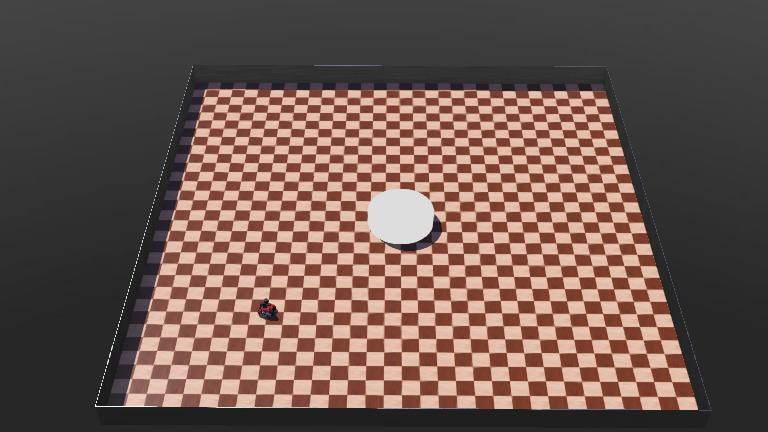
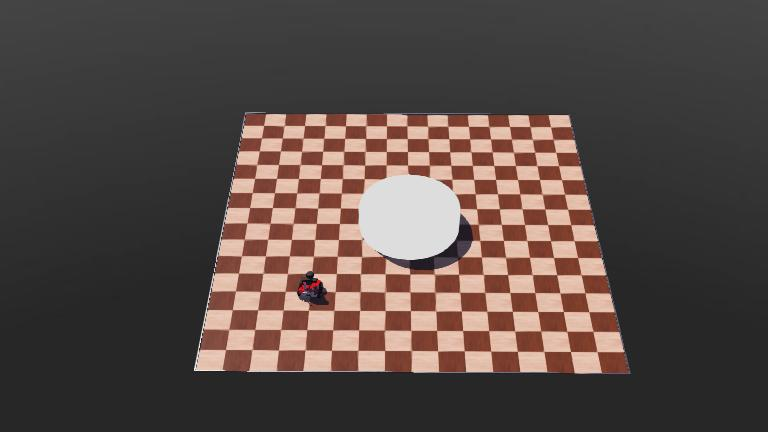
fix: Corrección de errores de sintaxis y actualización de interfaz Bug0
- 🔧 Arreglado error de sintaxis en navigation_bug0.py (paréntesis sin cerrar)
- 🔄 Actualizada interfaz Bug0NavigationController para usar front_distance en lugar de obstacle_sensors
- ✅ Controladores EPuck y RosBot ajustados a nueva interfaz
- 🛠 Mundos de Webots actualizados con configuraciones optimizadas
- 🎯 Interfaz simplificada: calculate_control_commands(x, y, angle, front_distance)

diff --git a/webots demos/Navigation Bug0 demo/controllers/rosbot_bug0_controller/rosbot_bug0_controller.py b/webots demos/Navigation Bug0 demo/controllers/rosbot_bug0_controller/rosbot_bug0_controller.py
@@ -1,4 +1,4 @@
-# Controlador Bug0 simple para el robot RosBot
+# Controlador Bug0 simple para el robot e-puck
 
 import math
 from robot_simur_uo import RosBot
@@ -14,7 +14,7 @@ def main():
     controller = Bug0NavigationController()
     
     # Objetivo
-    goal_x, goal_y = 2.0, 2.0
+    goal_x, goal_y = 1.0, 1.0
     controller.set_target(goal_x, goal_y)
     
     print(f"🎯 Objetivo: ({goal_x}, {goal_y})")
@@ -30,70 +30,23 @@ def main():
         pos = robot.get_gps_position()
         x, y = pos[0], pos[1]
         _, angle = robot.get_compass_orientation()
-        
-        # Obtener sensores de obstáculos con parámetros más restrictivos para RosBot
-        # El RosBot tiene LiDAR más sensible, necesitamos rangos más estrictos
-        obstacle_sensors = robot.get_lidar_sectored_distances(
-            num_sectors=3,
-            min_range=0.15,    # Rango mínimo más alto (15cm vs 5cm)
-            max_range=3.0      # Rango máximo más bajo (3m vs 10m)
-        )
+        # Obtener sensores de obstáculos usando solo 5 sectores
+        obstacle_sensors = robot.get_obstacle_sensors(num_sectors=3)
         
         # DEBUG: Mostrar todos los sectores en las primeras iteraciones
-        if iteration <= 5:
-            print(f"🔍 DEBUG Iter {iteration} - Sectores (3) con rangos restrictivos:")
-            sector_names = ["Izquierda", "Frontal", "Derecha"]
+        if iteration <= 1000:
+            print(f"🔍 DEBUG Iter {iteration} - Sectores (5):")
+            sector_names = ["Izquierda", "Frontal Izquierdo", "Frontal", "Frontal Derecho", "Derecha"]
             for i, dist in enumerate(obstacle_sensors):
                 print(f"   Sector {i} ({sector_names[i]}): {dist:.3f}m")
-            raw_data = robot.get_lidar_data()
-            print(f"   LiDAR raw data points: {len(raw_data) if raw_data else 0}")
-            if raw_data:
-                # Mostrar solo algunos valores del LiDAR raw para diagnóstico
-                sample_indices = [0, len(raw_data)//4, len(raw_data)//2, 3*len(raw_data)//4, len(raw_data)-1]
-                sample_values = [raw_data[i] for i in sample_indices if i < len(raw_data)]
-                print(f"   LiDAR samples: {[f'{v:.2f}' for v in sample_values]}")
+            print(f"   LiDAR raw data points: {len(robot.get_lidar_data()) if robot.get_lidar_data() else 0}")
         
         # Calcular comandos con Bug0
-        drive, steer = controller.calculate_control_commands(x, y, angle, obstacle_sensors)
-        
-        # PROTECCIÓN ANTI-CHOQUES: Solo considerar sector frontal (sector 1)
-        front_obstacle = obstacle_sensors[1] if len(obstacle_sensors) > 1 else 1.0  # Sector frontal
-        
-        # Filtrar valores sospechosos - más agresivo para RosBot
-        def filter_sensor_value(value):
-            # Para RosBot, filtrar más agresivamente
-            if value < 0.2:  # Ignorar valores menores a 20cm (vs 5cm en EPuck)
-                return 3.0   # Considerar como "sin obstáculo" (vs 1.0m)
-            return value
-        
-        front_obstacle = filter_sensor_value(front_obstacle)
-        
-        # Umbral más conservador para RosBot
-        emergency_threshold = 0.3  # 30cm vs 50cm del EPuck
-        
-        if front_obstacle < emergency_threshold:  # Obstáculo muy cerca
-            drive = 0.0  # Parar completamente
-            steer = 1.5   # Girar fuerte a la izquierda
-            if iteration % 10 == 0:  # Debug cada 10 iteraciones para no saturar
-                print(f"   🚨 PARADA DE EMERGENCIA: obstáculo frontal a {front_obstacle:.2f}m (umbral: {emergency_threshold}m)")
-        
+        drive, steer = controller.calculate_control_commands(x, y, angle, min(obstacle_sensors[0], obstacle_sensors[-1]))
+
         # Aplicar comandos al robot
-        robot.set_drive_command(drive, steer)
-        
-        # Debug cada 50 iteraciones
-        if iteration <= 10 or iteration % 50 == 0:
-            distance = math.sqrt((goal_x - x)**2 + (goal_y - y)**2)
+        robot.set_drive_command(drive, steer)        
             
-            print(f"📍 Iter {iteration}: pos=({x:.2f},{y:.2f}) dist={distance:.2f}m")
-            print(f"   Obstáculo frontal: {front_obstacle:.2f}m (filtrado)")
-            print(f"   Comandos: vel={drive:.2f}, giro={steer:.2f}")
-            print(f"   Umbral Bug0: {controller.obstacle_threshold}m, Emergencia: {emergency_threshold}m")
-            
-            if front_obstacle < emergency_threshold:
-                print(f"   🚧 OBSTÁCULO FRONTAL DETECTADO - Parada de emergencia")
-            elif front_obstacle < controller.obstacle_threshold:
-                print(f"   � OBSTÁCULO CERCANO - Bug0 activado")
-        
         # Verificar si llegamos al objetivo
         if controller.is_target_reached(x, y):
             print("🎯 ¡Objetivo alcanzado!")
@@ -102,11 +55,6 @@ def main():
     
     robot.cleanup()
     print("✅ Controlador Bug0 simple finalizado")
-
-
-if __name__ == "__main__":
-    main()
-
 
 
 if __name__ == "__main__":

diff --git a/webots demos/Navigation Bug0 demo/controllers/epuck_bug0_controller/epuck_bug0_controller.py b/webots demos/Navigation Bug0 demo/controllers/epuck_bug0_controller/epuck_bug0_controller.py
@@ -30,52 +30,23 @@ def main():
         pos = robot.get_gps_position()
         x, y = pos[0], pos[1]
         _, angle = robot.get_compass_orientation()
-        
-        # Obtener sensores de obstáculos usando solo 3 sectores
-        obstacle_sensors = robot.get_obstacle_sensors(num_sectors=3)
+        # Obtener sensores de obstáculos usando solo 5 sectores
+        obstacle_sensors = robot.get_obstacle_sensors(num_sectors=5)
         
         # DEBUG: Mostrar todos los sectores en las primeras iteraciones
         if iteration <= 5:
-            print(f"🔍 DEBUG Iter {iteration} - Sectores (3):")
-            sector_names = ["Izquierda", "Frontal", "Derecha"]
+            print(f"🔍 DEBUG Iter {iteration} - Sectores (5):")
+            sector_names = ["Izquierda", "Frontal Izquierdo", "Frontal", "Frontal Derecho", "Derecha"]
             for i, dist in enumerate(obstacle_sensors):
                 print(f"   Sector {i} ({sector_names[i]}): {dist:.3f}m")
             print(f"   LiDAR raw data points: {len(robot.get_lidar_data()) if robot.get_lidar_data() else 0}")
         
         # Calcular comandos con Bug0
-        drive, steer = controller.calculate_control_commands(x, y, angle, obstacle_sensors)
-        
-        # PROTECCIÓN ANTI-CHOQUES: Solo considerar sector frontal (sector 1)
-        front_obstacle = obstacle_sensors[1] if len(obstacle_sensors) > 1 else 1.0  # Sector frontal
-        
-        # Filtrar valores sospechosos (muy pequeños que pueden ser ruido)
-        def filter_sensor_value(value):
-            if value < 0.05:  # Valores muy pequeños probablemente son ruido
-                return 1.0
-            return value
-        
-        front_obstacle = filter_sensor_value(front_obstacle)
-        
-        if front_obstacle < 0.5:  # Obstáculo a menos de 50cm en sector frontal
-            drive = 0.0  # Parar completamente
-            steer = 1.5   # Girar fuerte a la izquierda
-            if iteration % 10 == 0:  # Debug cada 10 iteraciones para no saturar
-                print(f"   🚨 PARADA DE EMERGENCIA: obstáculo frontal a {front_obstacle:.2f}m")
-        
+        drive, steer = controller.calculate_control_commands(x, y, angle, min(obstacle_sensors[1:4]))
+
         # Aplicar comandos al robot
-        robot.set_drive_command(drive, steer)
-        
-        # Debug cada 50 iteraciones
-        if iteration <= 10 or iteration % 50 == 0:
-            distance = math.sqrt((goal_x - x)**2 + (goal_y - y)**2)
+        robot.set_drive_command(drive, steer)        
             
-            print(f"📍 Iter {iteration}: pos=({x:.2f},{y:.2f}) dist={distance:.2f}m")
-            print(f"   Obstáculo frontal: {front_obstacle:.2f}m")
-            print(f"   Comandos: vel={drive:.2f}, giro={steer:.2f}")
-            
-            if front_obstacle < controller.obstacle_threshold:
-                print(f"   🚧 OBSTÁCULO FRONTAL DETECTADO - Bug0 activado")
-        
         # Verificar si llegamos al objetivo
         if controller.is_target_reached(x, y):
             print("🎯 ¡Objetivo alcanzado!")

diff --git a/src/robot_simur_uo/controllers/navigation_bug0.py b/src/robot_simur_uo/controllers/navigation_bug0.py
@@ -24,17 +24,16 @@ class Bug0NavigationController(NavigationController):
     Controlador Bug0 simple: ir al objetivo, si hay obstáculo girar a la izquierda.
     """
     
-    def __init__(self, linear_gain: float = 1.0, steering_gain: float = 2.0):
+    def __init__(self, linear_gain: float = 1.0, steering_gain: float = 2.0, obstacle_threshold: float = 0.5):
         """Inicializa el controlador Bug0 simple."""
         super().__init__(linear_gain, steering_gain)
-        self.obstacle_threshold = 0.5  # 50cm - distancia de seguridad mayor
-        self.mode = "go_to_goal"
+        self.obstacle_threshold = obstacle_threshold 
         
     def calculate_control_commands(self, 
                                  current_x: float, 
                                  current_y: float, 
                                  current_angle: float,
-                                 obstacle_sensors: List[float] = None) -> Tuple[float, float]:
+                                 front_distance: float = None) -> Tuple[float, float]:
         """
         Bug0 simple: ir al objetivo, si hay obstáculo girar izquierda.
         
@@ -42,24 +41,24 @@ class Bug0NavigationController(NavigationController):
             current_x: Posición X actual
             current_y: Posición Y actual  
             current_angle: Ángulo actual
-            obstacle_sensors: Sensores de obstáculos (opcional)
-            
+            front_distance: Distancia frontal (opcional)
+
         Returns:
             Tupla (velocidad_lineal, velocidad_angular)
         """
         # Si no hay sensores, usar navegación básica
-        if not obstacle_sensors:
+        if front_distance is None:
             return super().calculate_control_commands(current_x, current_y, current_angle)
         
-        # Verificar obstáculo frontal (primer sensor)
-        front_distance = obstacle_sensors[0] if obstacle_sensors else 1.0
-        
+ 
         if front_distance < self.obstacle_threshold:
             # Hay obstáculo: girar a la izquierda
-            return 0.1, 1.0  # velocidad baja, girar izquierda
+            return 0.0, 1.0  # velocidad nula, girar izquierda
         else:
             # No hay obstáculo: ir al objetivo
             return super().calculate_control_commands(current_x, current_y, current_angle)
+
+
 # Ejemplo de uso simple
 if __name__ == "__main__":
     print("🧪 PRUEBA SIMPLE DEL CONTROLADOR BUG0")
